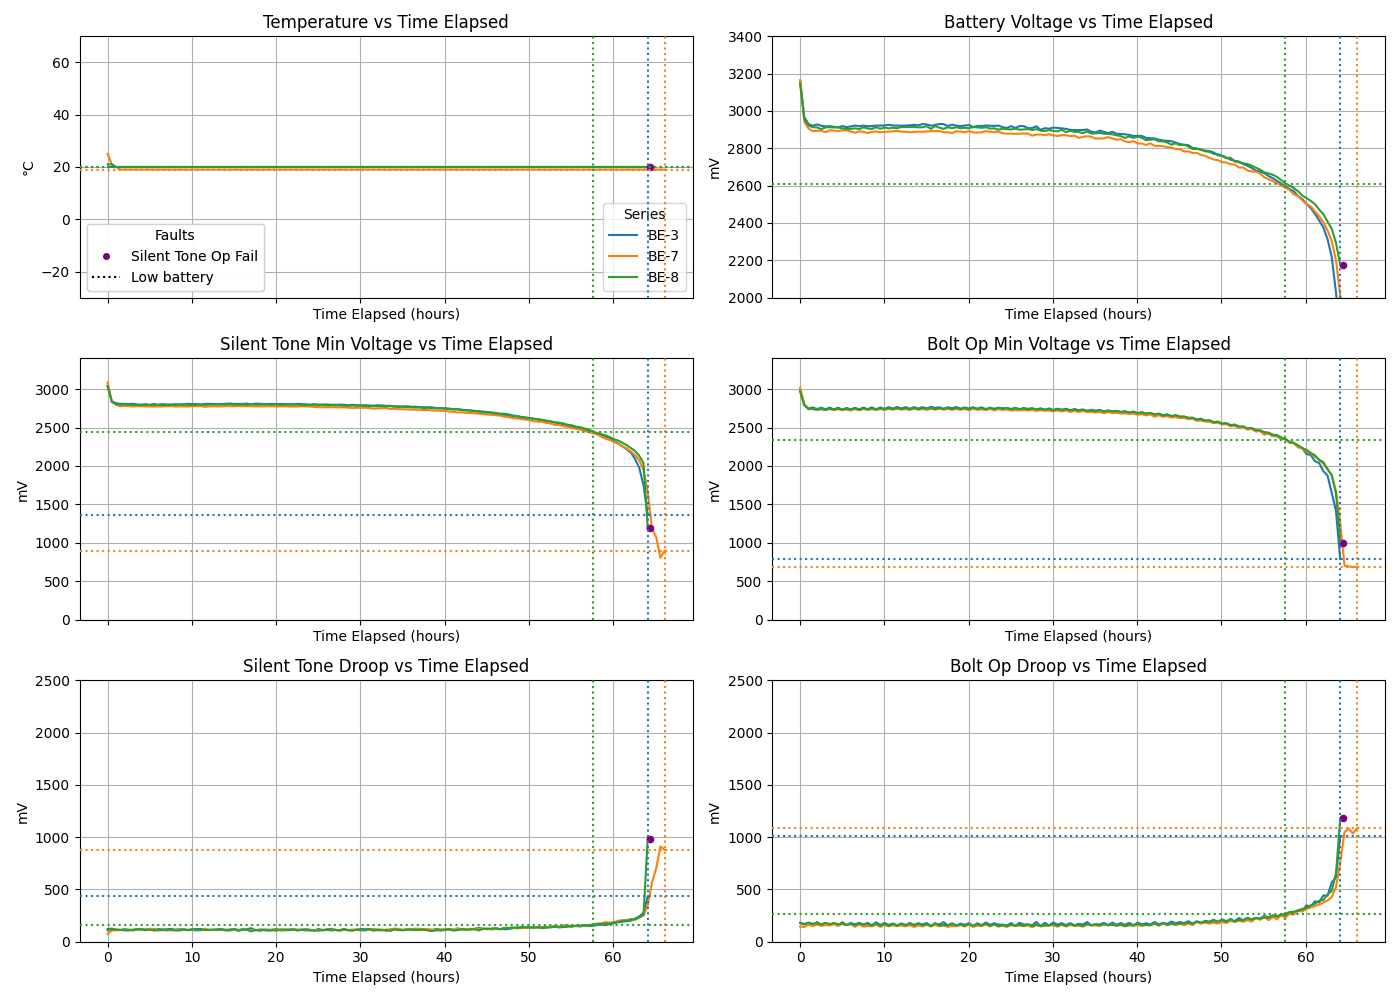
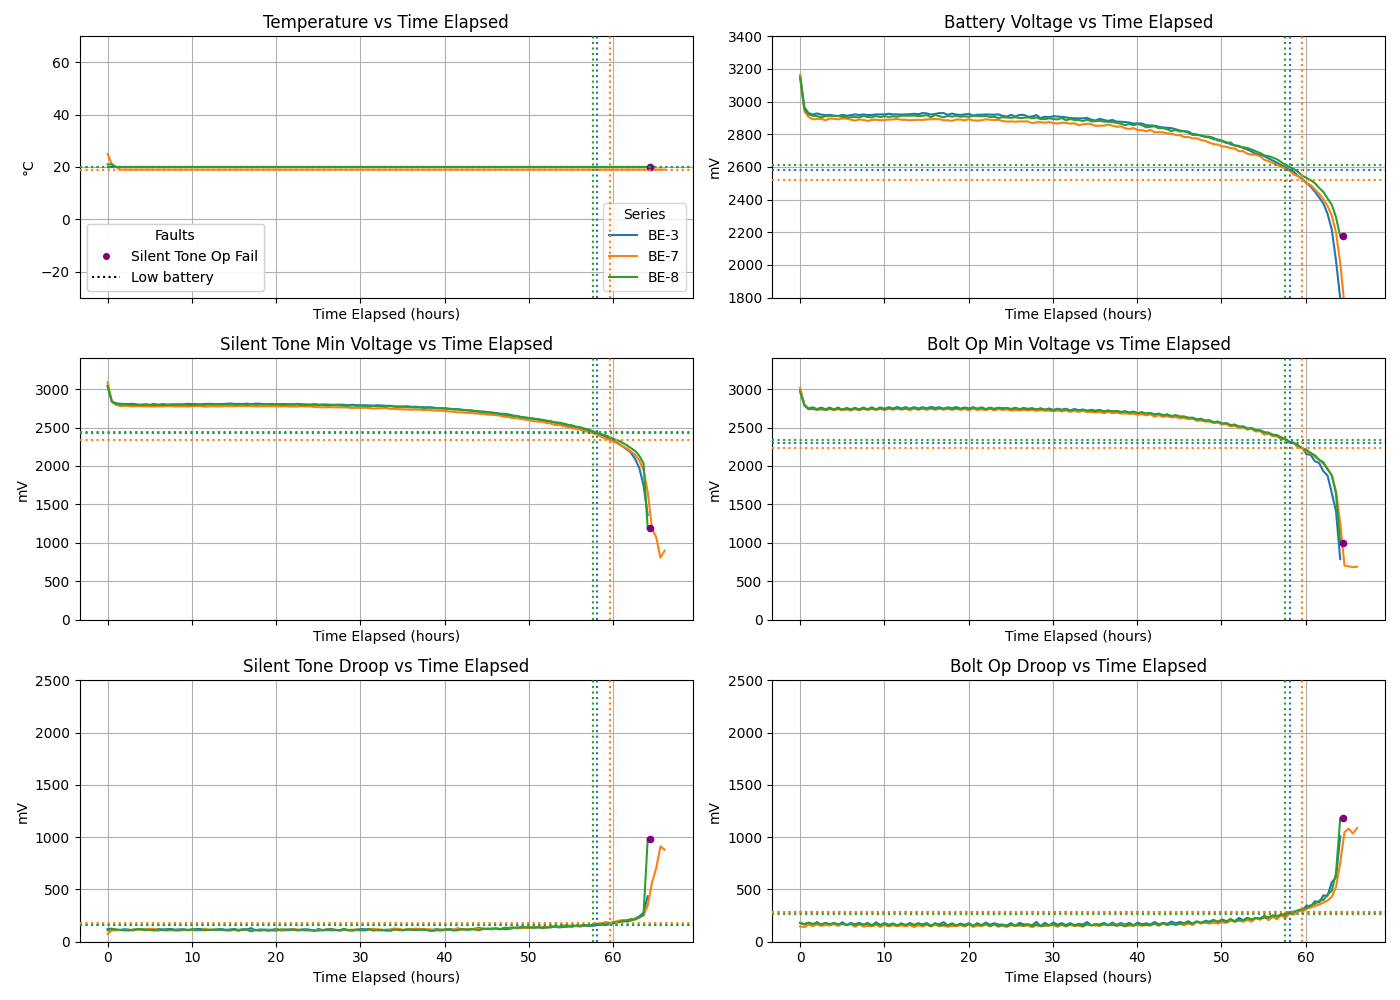
duracel 20c

diff --git a/plot_folder.py b/plot_folder.py
@@ -6,7 +6,7 @@ import numpy as np  # NEW
 from matplotlib.lines import Line2D
 
 # CONFIGURATION
-CSV_DIR = "csvs/manufacturers-cross-temp/temp-60c/level"
+CSV_DIR = "csvs/manufacturers-cross-temp/temp-20c/duracell"
 CSV_TAG = os.path.basename(os.path.normpath(CSV_DIR))
 PLOT_OUTPUT = f"plots/compare_all_{CSV_DIR.replace("/", "-")}.png"
 COMPUTE_LOW_BATT_BY_ALL_FAULTS=True
